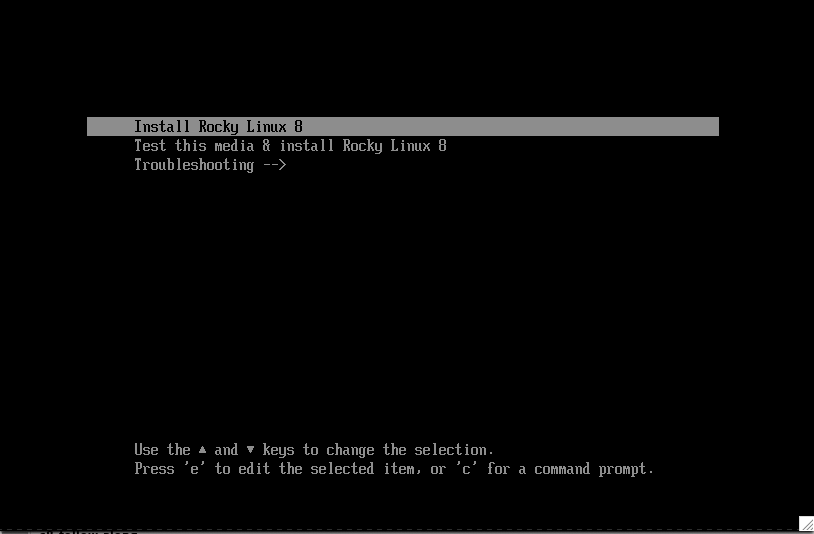
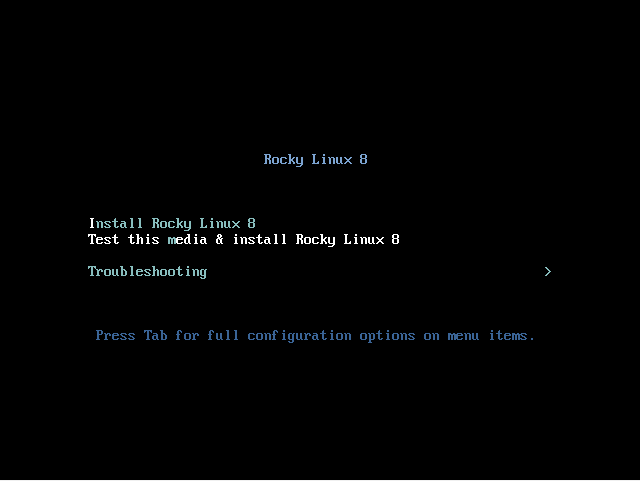
Review of rocky-8-installation

diff --git a/en/rocky/8/guides/rocky-8-installation.md b/en/rocky/8/guides/rocky-8-installation.md
@@ -1,9 +1,10 @@
 # Installing Rocky Linux
 
-This guide walks-through the detailed steps to install a 64-bit version of the rocky Linux distribution on a stand-alone system. 
+This guide walks-through the detailed steps to install a 64-bit version of the rocky Linux distribution on a stand-alone system.
 
+****
 We will be performing a server class install in this chapter using an operating system installer image downloaded from the rocky project website. We will tackle the installation and customizations steps in the following sections.
-
+****
 
 ## OS installation prerequisites
 
@@ -30,22 +31,20 @@ Rocky-<MAJOR#>.<MINOR#>.<ARCH>-<VARIANT>.iso
 
 For example  `Rocky-8.3-x86_64-minimal.iso`
 
-
-**Note:**
+> **NOTE:**
 Rocky project web page has a listing of several mirrors located all over the world. Whenever possible, you should choose the mirror geographically closest to you. The list of official mirrors can be found at `https://#`
-
 
 ## Verifying the installer ISO
 
-If you've downloaded the Rocky ISO(s) on an existing Linux distribution, you can use the sha256sum utility to verify that file(s) you downloaded are not corrupted in anyway. We'll show an example of how to verify the sha256sum of `Rocky-8.3-x86_64-minimal.iso `.
+If you've downloaded the Rocky ISO(s) on an existing Linux distribution, you can use the `sha256sum` utility to verify that file(s) you downloaded are not corrupted in anyway. We'll show an example of how to verify the sha256sum of the `sha256sum Rocky-8.3-x86_64-minimal.iso`.
 
-First download the file that contains the official checksums for the avaiable ISOs. While still in the folder that contains the downloaded Rocky ISO, type:
+First download the file that contains the official checksums for the available ISOs. While still in the folder that contains the downloaded Rocky ISO, type:
 
 ```
 wget http://download.rockylinux.org/pub/rocky/8.3/isos/x86_64/CHECKSUM
 ```
 
-Use the sha256sum utility to verify the 
+Use the `sha256sum` utility to verify the
 
 ```
 sha256sum -c CHECKSUM    --ignore-missing Rocky-8.3-x86_64-minimal.iso
@@ -57,8 +56,8 @@ The output should include:
 Rocky-8.3-x86_64-minimal.iso: OK
 ```
 
-
-**TIP:** Before starting the installation proper, the system’s Unified Extensible Firmware Interface (UEFI) or Basic Input/Output System (BIOS) should be preconfigured to boot from the correct medium. 
+> **TIP:**
+Before starting the installation proper, the system’s Unified Extensible Firmware Interface (UEFI) or Basic Input/Output System (BIOS) should be preconfigured to boot from the correct medium.
 
 # The Installation
 
@@ -68,159 +67,190 @@ Insert and boot off the installation medium (optical disk, USB flash drive, and 
 
 Once booted, you'll be presented with a welcome splash screen.
 
-![Rocky Linux installation splash screen](images/installation-F01.png)
+![Welcome screen](images/installation-F01.png)
 
-If you do not press any key, the prompt will begin a countdown, after which the installation process will start by booting the highlighted Test This Media & Install Rocky Linux 8 ... option. You can also press enter to start the process immediately.
+If you do not press any key, the prompt will begin a countdown, after which the installation process will start by booting the highlighted `Test this media & install Rocky Linux 8` ... option. You can also press <kbd>enter</kbd> to start the process immediately.
 
 A quick media verification step will take place. This media verification step can save you the trouble of starting the installation only to find out halfway through that the installer will abort because of bad installation media.
 
 After the media check runs to completion, and the media is successfully verified to be usable, the installer will automatically continue to the next screen.
 
-Select the language you want to use to perform the installation in this screen. For this example, we select English (United States). Then click the Continue button.
+Select the language you want to use to perform the installation in this screen. For this example, we select _English (United States)_. Then click the <kbd>Continue</kbd> button.
 
-**Warning:** :warning: You'll next see warning screen. The screen will warn you that you are installing pre-release software and that you should NOT use the operating system in a production environment. If you okay with this, click `I want to proceed` to continue 
+> **WARNING:**
+:warning: You'll next see warning screen. The screen will warn you that you are installing pre-release software and that you **should NOT** use the operating system in a production environment. If you okay with this, click <kbd>I want to proceed</kbd> to continue.
 
 # Installation Summary
 
-The Installation Summary screen is an all-in-one area where you make the important decisions about the operating system to be installed. The screen is roughly divided into the following sections:
-    • Localization (Keyboard, Language Support, and Time & Date)
-    • Software (Installation Source and Software Selection)
-    • System (Installation Destination and Network & Hostname)
+The _Installation Summary_ screen is an all-in-one area where you make the important decisions about the operating system to be installed.
+
+The screen is roughly divided into the following sections:
+
+- _Localization_: (Keyboard, Language Support, and Time & Date)
+- _Software_: (Installation Source and Software Selection)
+- _System_: (Installation Destination and Network & Hostname)
 
 We delve into each of these sections next and make changes where necessary.
 
-
 ## Localization Section
+
 This section is used for customizing items related to the locale of the system. This includes – Keyboard, Language Support, Time and Date.
 
-
 ### Keyboard
-On our demo system in this guide, we accept the default value (English US) and make no changes.
-However if you need to make any changes here, from the Installation Summary screen, click the Keyboard option to specify the keyboard layout of the system. You can add additional keyboard layouts if you need to in the ensuing screen and specify their order.
-Click Done when you are done.
+
+On our demo system in this guide, we accept the default value (_English US_) and make no changes.
+
+However if you need to make any changes here, from the _Installation Summary_ screen, click the <kbd>Keyboard</kbd> option to specify the keyboard layout of the system. You can add additional keyboard layouts if you need to in the ensuing screen and specify their order.
+
+Click <kbd>Done</kbd> when you are done.
 
 ### Language Support
-The Language Support option on the Installation Summary screen enables you to specify support for additional languages that you may need on the finished system.
-We accept the default value (English – United States) and make no change. Click Done.
 
+The <kbd>Language Support</kbd> option on the _Installation Summary_ screen enables you to specify support for additional languages that you may need on the finished system.
+
+We accept the default value (__English – United States__) and make no change. Click <kbd>Done</kbd>.
 
 ### Time & Date
-Click the Time & Date option on the main Installation Summary screen to bring up another screen that will allow you to select the time zone in which the machine is located. Scroll through the list of regions and cities and select the area closest to you. 
 
-Depending on your installation source, the Network Time option could be set to ON or OFF by default. Accept the default ON setting; this allows the system to automatically set the correct time using the Network Time Protocol (NTP). Click Done after making any changes.
+Click the <kbd>Time & Date</kbd> option on the main _Installation Summary_ screen to bring up another screen that will allow you to select the time zone in which the machine is located. Scroll through the list of regions and cities and select the area closest to you.
+
+Depending on your installation source, the _Network Time_ option could be set to _ON_ or _OFF_ by default. Accept the default _ON_ setting; this allows the system to automatically set the correct time using the Network Time Protocol (NTP). Click <kbd>Done</kbd> after making any changes.
 
 ## Software Section
-Under the Software section of the Installation Summary screen, you can select the installation source as well as additional packages (applications) that get installed.
+
+Under the _Software_ section of the _Installation Summary_ screen, you can select the installation source as well as additional packages (applications) that get installed.
 
 ### Installation Source
-Since we are performing our installation using a full Rocky 8 image, you will notice that Local Media is automatically specified under the Installation Source section of the main Installation Summary screen. We'll accept the preset defaults.
+
+Since we are performing our installation using a full Rocky 8 image, you will notice that _Local Media_ is automatically specified under the Installation Source section of the main _Installation Summary_ screen. We'll accept the preset defaults.
 
 ### Software Selection
 
+Clicking the <kbd>Software Selection</kbd> option on the main _Installation Summary_ screen presents you with the section of the installation where you can pick the exact software packages that get installed on the system. The software selection area is divided into :
 
-Clicking the Software Selection option on the main Installation Summary screen presents you with the section of the installation where you can pick the exact software packages that get installed on the system. The software selection area is divided into the Base Environment (Server, Minimal Install, Custom Operating System) and Additional software for Selected Environment area.
-Selecting a Base Environment on the left side presents a variety of related additional software that can be installed for the given environment on the right side.
+- _Base Environment_ : Server, Minimal Install, Custom Operating System
+- _Additional software for Selected Environment area_ : Selecting a Base Environment on the left side presents a variety of related additional software that can be installed for the given environment on the right side.
 
-Select the Minimal Install (Basic functionality) option instead.
+Select the _Minimal Install_ (Basic functionality) option instead.
 
-Click Done at the top of the screen.
+Click <kbd>Done</kbd> at the top of the screen.
         
 ## System Section
-The System section of the Installation Summary screen is used for customizing and making changes to the underlying hardware of the target system. This is where you create your hard drive partitions or volumes, specify the file system to be used, and specify the network configuration.
+
+The System section of the _Installation Summary_ screen is used for customizing and making changes to the underlying hardware of the target system. This is where you create your hard drive partitions or volumes, specify the file system to be used, and specify the network configuration.
 
 ### Installation Destination
 
-From the Installation Summary screen, click the Installation Destination option. This takes you to the corresponding task area.
-You will see a screen displaying all the candidate disk drives that you have available on the target system. If you have only one disk drive on the system, as on our sample system, you will see the drive listed under Local Standard Disks with a check mark beside it. Clicking the disk icon will toggle on or off the disk selection check mark. We want it selected/checked here.
+From the _Installation Summary_ screen, click the <kbd>Installation Destination</kbd> option. This takes you to the corresponding task area.
 
+You will see a screen displaying all the candidate disk drives that you have available on the target system. If you have only one disk drive on the system, as on our sample system, you will see the drive listed under _Local Standard Disks_ with a check mark beside it. Clicking the disk icon will toggle on or off the disk selection check mark. We want it selected/checked here.
 
-Under the Storage Configuration Options section, select the Automatic radio button.
-Then click Done at the top of the screen.
-Once the installer determines that you have a usable disk, you will be returned to the installation summary screen.
+Under the _Storage Configuration_ Options section, select the <kbd>Automatic</kbd> radio button.
 
+Then click <kbd>Done</kbd> at the top of the screen.
 
+Once the installer determines that you have a usable disk, you will be returned to the _Installation Summary_ screen.
 
 ### Network & Hostname
+
 The final task of the installation procedure deals with network configuration, where you can configure or tweak network-related settings for the system.
 
-**NOTE:** After you click on the Network & Hostname option, all correctly detected network interface hardware (such as Ethernet, wireless network cards, and so on) will be listed in the left pane of the network configuration screen.Depending on the Linux distribution and the specific hardware setup, Ethernet devices in Linux have names similar to eth0, eth1, ens3, ens4, em1, em2, p1p1, enp0s3, and so on.
+> **NOTE:** After you click on the <kbd>Network & Hostname</kbd> option, all correctly detected network interface hardware (such as Ethernet, wireless network cards, and so on) will be listed in the left pane of the network configuration screen. Depending on the Linux distribution and the specific hardware setup, Ethernet devices in Linux have names similar to `eth0`, `eth1`, `ens3`, `ens4`, `em1`, `em2`, `p1p1`, `enp0s3`, and so on.
  
 For each interface, you can either configure it using DHCP or manually set the IP address. If you choose to configure manually, be sure to have all the pertinent information ready, such as the IP address, netmask, and so on.
-Clicking the Network & Hostname button in the main Installation Summary screen opens the corresponding configuration screen. Among other things, you have the option to configure the hostname of the system (the name defaults to localhost.localdomain). Note that you can easily change this name later on after the OS has been installed. For now, accept the default value supplied for the hostname.
+
+Clicking the <kbd>Network & Hostname</kbd> button in the main _Installation Summary_ screen opens the corresponding configuration screen. Among other things, you have the option to configure the hostname of the system (the name defaults to `localhost.localdomain`).
+
+> **NOTE:**
+You can easily change this name later on after the OS has been installed. For now, accept the default value supplied for the hostname.
 
 The next important configuration task is related to the network interfaces on the system. First, verify that an Ethernet card (or any network card) is listed in the left pane. Click any of the detected network devices in the left pane to select it. The configurable properties of the selected network adapter will appear in the right pane of the screen.
-On our sample server, we have four Ethernet devices (ens3, ens4, ens5 and ens6), all of which are in a connected state. The type, name, quantity, and state of the network devices on your system may vary from the ones on our sample system.
-Make sure the switch of the device you want to configure is flipped to the ON position in the right pane.
+
+> **NOTE:**
+On our sample server, we have four Ethernet devices (`ens3`, `ens4`, `ens5` and `ens6`), all of which are in a connected state. The type, name, quantity, and state of the network devices on your system may vary from the ones on our sample system.
+
+Make sure the switch of the device you want to configure is flipped to the `ON` position in the right pane.
 We'll accept all the defaults in this section.
 
-Click Done to return to the main Installation Summary screen.
+Click <kbd>Done</kbd> to return to the main _Installation Summary_ screen.
 
-**CAUTION:**  Pay attention to the IP address of the server in this section of this installer. If you don’t have physical or easy console access to the system, this information will come in handy later on when you need to connect to the server to continue working on it.
+> **CAUTION:**
+Pay attention to the IP address of the server in this section of this installer. If you don’t have physical or easy console access to the system, this information will come in handy later on when you need to connect to the server to continue working on it.
 
 ## The Installation
+
 Once you are satisfied with your choices for the various installation tasks, the next phase of the installation process will begin the installation proper.
 
 ## User Settings Section
 
- This section can be used for creating a password for the root user account and also for creating new administrative or non-administrative accounts.
-
+This section can be used for creating a password for the `root` user account and also for creating new administrative or non-administrative accounts.
 
 ### Set the Root Password
 
-Click the Root Password field under User Settings to launch the Root Password task screen. In the Root Password text box, set a strong password for the root user. 
+Click the _Root Password_ field under _User Settings_ to launch the _Root Password _task screen. In the _Root Password_ text box, set a strong password for the root user.
+
+> **WARNING:**
 This user is the most privileged account on the system. Therefore, if you choose to use it or enable it - it is crucial that you protect this account with a very good password.
-Enter the same password again in the Confirm text box. Click Done.
+
+Enter the same password again in the _Confirm_ text box.
+
+Click <kbd>Done</kbd>.
             
 
 ### Create a User Account
 
-Next click the User Creation field under User Settings to launch the Create User task screen. This task area allows you to create a privileged or non-privileged (non-administrative) user account on the system. 
+Next click the _User Creation_ field under _User Settings_ to launch the _Create User_ task screen. This task area allows you to create a privileged or non-privileged (non-administrative) user account on the system.
 
-Creating and using a non-privileged account for day-to-day tasks on a system is a good system administration practice. 
+> **INFO:**
+Creating and using a non-privileged account for day-to-day tasks on a system is a good system administration practice.
 
 We’ll create a regular user that can invoke superuser (administrator) powers when needed.
-Complete the fields in the Create User screen with the following information and then click Done:
 
-Full name
+Complete the fields in the _Create User_ screen with the following information and then click <kbd>Done</kbd>:
+
+_Full name_:
 `rockstar`
-Username
+
+_Username_:
 `rockstar`
-Make this user administrator
+
+_Make this user administrator_:
 Checked
 
-Require a password to use this account
+_Require a password to use this account_:
 Checked
 
-Password
+_Password_:
 `04302021`
 
-Confirm password
+_Confirm password_:
 `04302021`
-
 
 ### Start the Installation
 
-Once you are satisfied with your choices for the various installation tasks, click the Begin Installation button on the main Installation Summary screen. The installation will begin, and the installer will show the progress of the installation.
+Once you are satisfied with your choices for the various installation tasks, click the Begin Installation button on the main _Installation Summary_ screen. The installation will begin, and the installer will show the progress of the installation.
 
-**NOTE:** If you develop cold feet after you click the Begin Installation button, you can still safely back out of the installation without any loss of data (or self-esteem). To quit the installer, simply reset your system either by clicking the Quit button, pressing ctrl-alt-del on the keyboard, or pushing the reset or power switch.
+> **NOTE:**
+If you develop cold feet after you click the Begin Installation button, you can still safely back out of the installation without any loss of data (or self-esteem). To quit the installer, simply reset your system either by clicking the Quit button, pressing ctrl-alt-del on the keyboard, or pushing the reset or power switch.
 
 When the installation begins, various tasks will begin running in the background, such as partitioning the disk, formatting the partitions or LVM volumes, checking for and resolving software dependencies, writing the operating system to the disk, and so on.   
- 
+
 ### Complete the Installation
+
 After you’ve completed any of the mandatory subtasks and the installer has run its course, you'll be presented with a final installation progress screen with a complete message.
 
-Finally, complete the entire procedure by clicking the Reboot System button. The system will reboot itself.
+Finally, complete the entire procedure by clicking the <kbd>Reboot System</kbd> button. The system will reboot itself.
             
 ### Log In
+
 The system is now set up and ready for use. You will see the adorable Rocky Linux console.
 
 ![Rocky Linux Welcome Screen](images/installation-F04.png)
 
-To log onto the system, type `rockstar` at the login prompt and press enter. 
+To log onto the system, type `rockstar` at the login prompt and press <kbd>enter</kbd>.
 
-At the Password prompt, type `04302021` (rockstar’s password) and press enter.
+At the Password prompt, type `04302021` (rockstar’s password) and press <kbd>enter</kbd> (nothing will appear on the screen and this is normal).
 
-We'll run the `whoami` command after login. 
+We'll run the `whoami` command after login.
 
 ![Login Screen](images/installation-F06.png)
-
